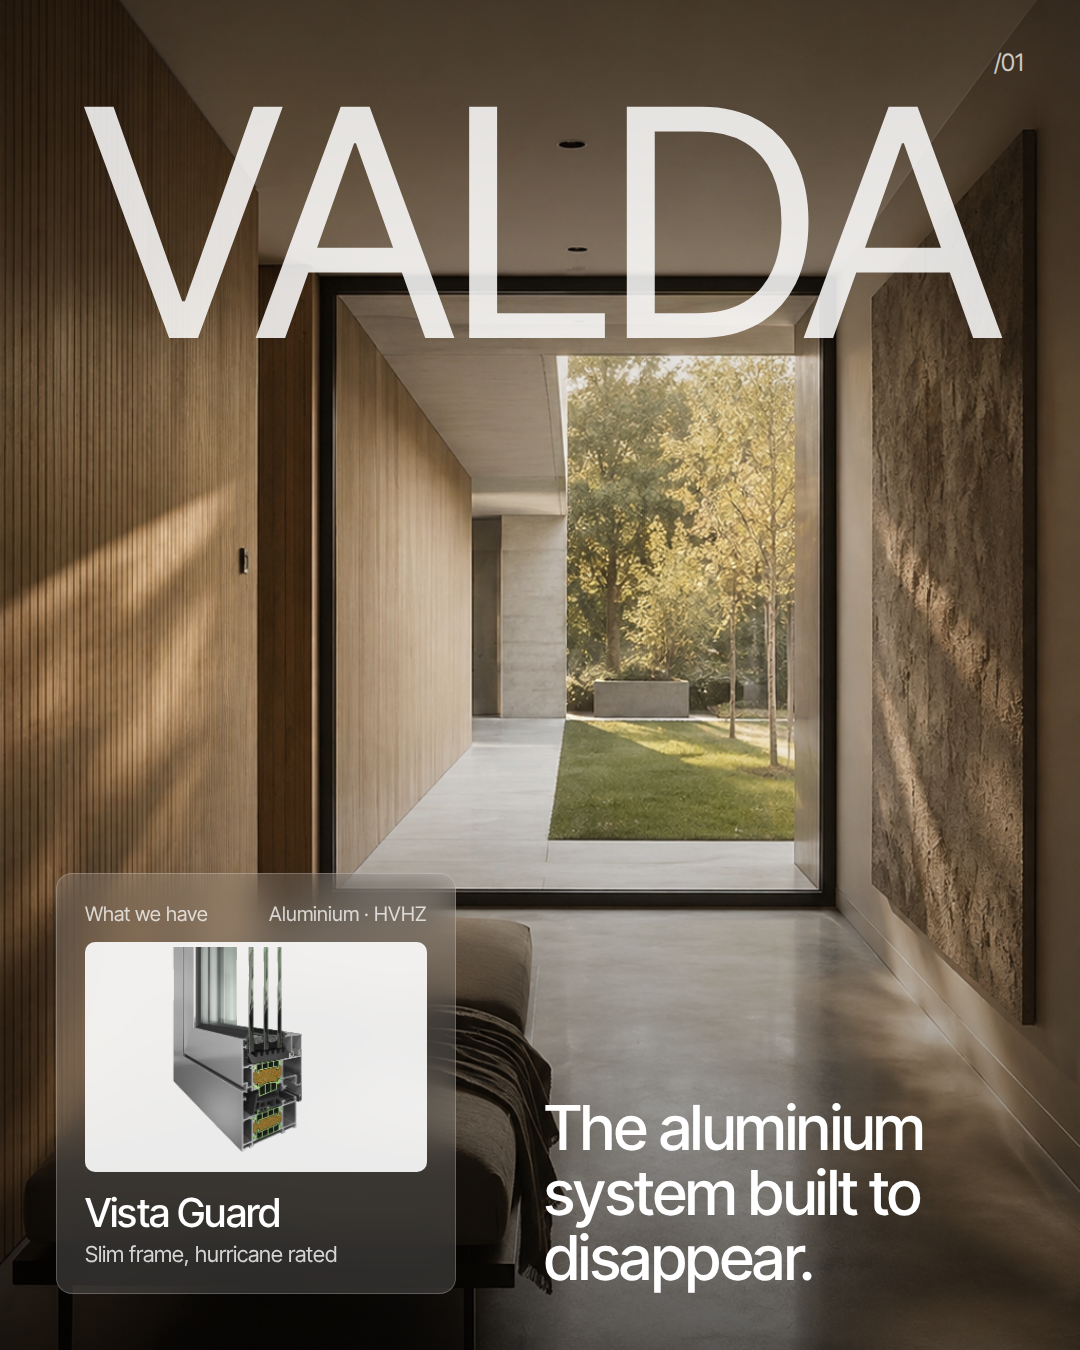
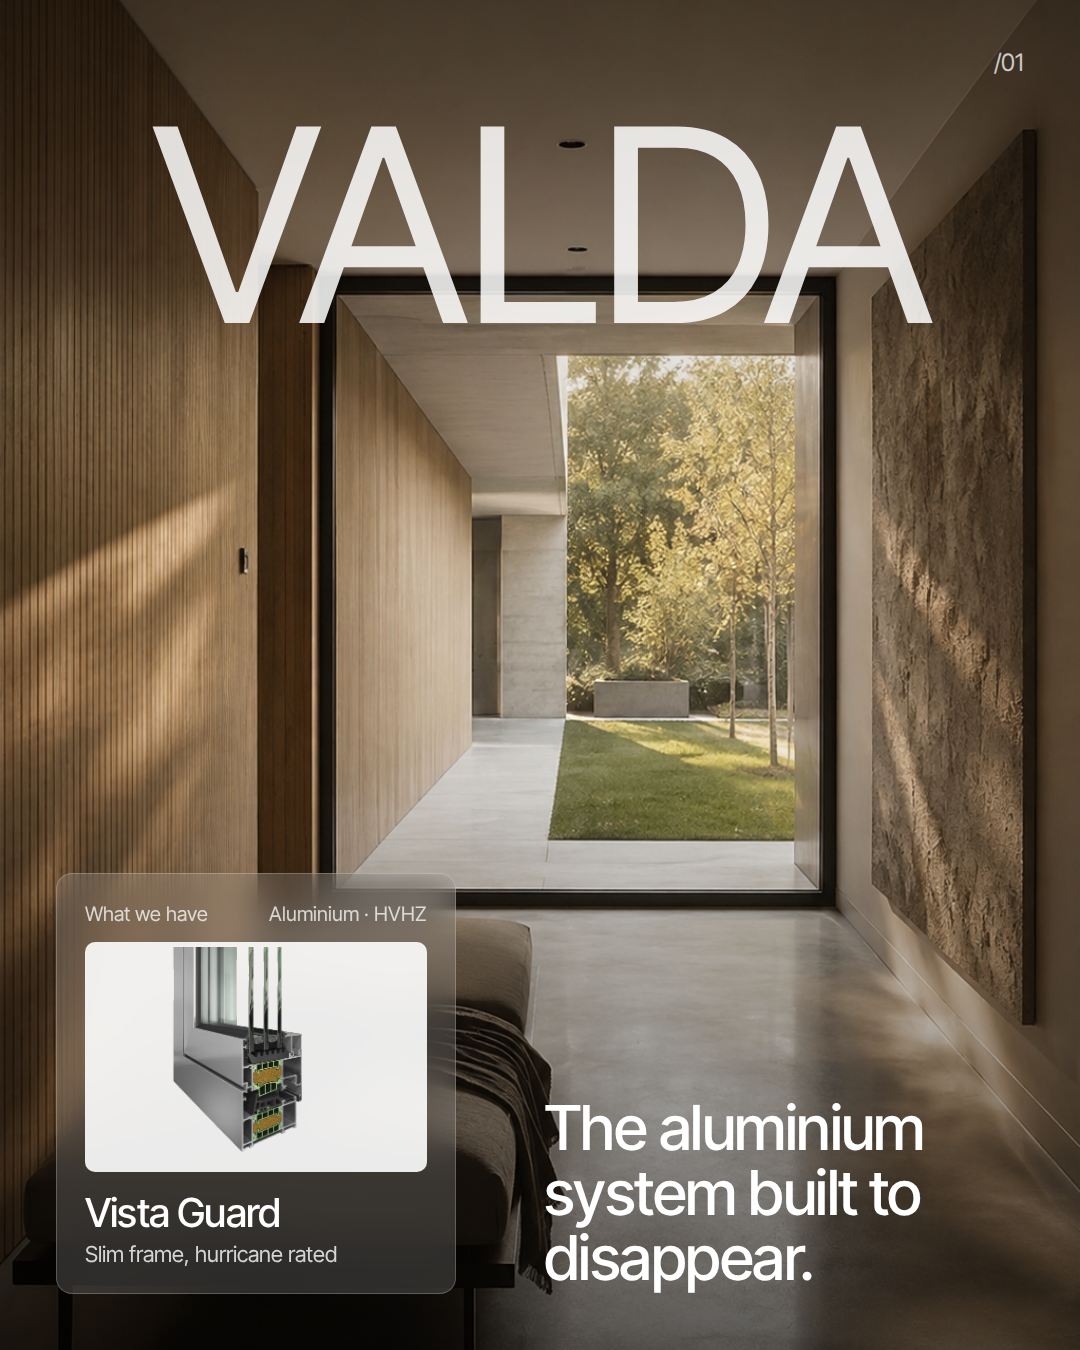
Add Instagram grid preview and keep cover wordmark inside the 3:4 grid crop
Claude-Session: https://claude.ai/code/session_01Mb6qwypygEVdYvV9LqQBFE

Changed region(s): [[0.0611, 0.0622, 0.9472, 0.2489]]

diff --git a/social/site.css b/social/site.css
@@ -64,3 +64,4 @@ body{background:#999;font-family:"Inter Tight",sans-serif;-webkit-font-smoothing
 .scrim.hero{background:linear-gradient(180deg,rgba(0,0,0,.32) 0%,rgba(0,0,0,0) 38%,rgba(0,0,0,0) 52%,rgba(0,0,0,.6) 100%)}
 /* Instagram 4:5 portrait */
 .ig .slide{height:1350px}
+.ig .wordmark{font-size:270px;top:90px}
